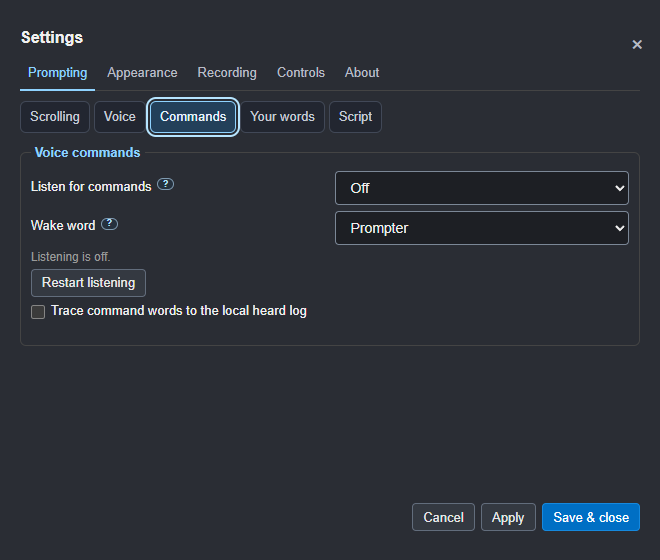
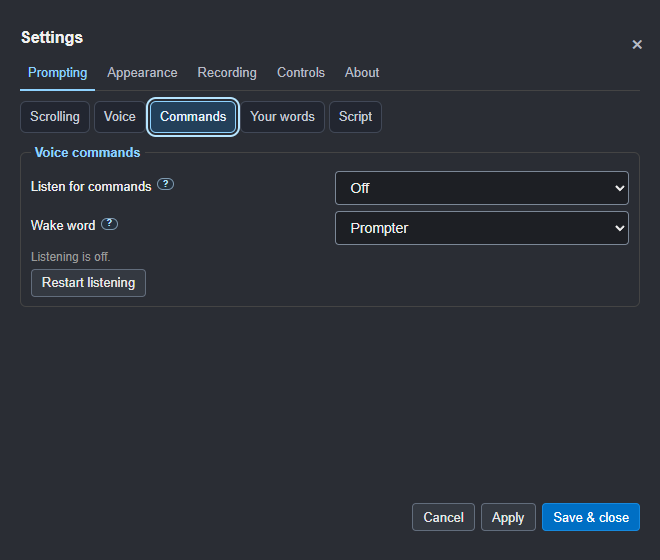
Group support logs and optional command tracing in Debug settings

Changed region(s): [[0.0303, 0.5464, 0.4848, 0.5768]]

diff --git a/src/client/teleprompter.html b/src/client/teleprompter.html
@@ -755,7 +755,6 @@
           </label>
           <p id="set-listening-status" class="field-hint" data-essential role="status" aria-live="polite">Listening is off.</p>
           <button type="button" id="set-listening-restart">Restart listening</button>
-          <label class="check" title="Save recognised words locally for troubleshooting, including while stopped. This can include surrounding conversation. Turn it off after checking; no audio is saved by this option."><input type="checkbox" id="set-trace-commands" /> Trace command words to the local heard log</label>
         </fieldset>
         <fieldset data-tab="voice">
           <legend>Recognition and microphone</legend>
@@ -1082,19 +1081,23 @@
             ><input id="set-check-updates" type="checkbox" /> Check for updates when
             Sightline starts (asks GitHub; nothing downloads by itself)</label
           >
-          <label class="check"
-            ><input id="set-debug-mode" type="checkbox" /> Debug mode: a step-by-step
-            log, for tracking down a problem</label
-          >
-          <p class="field-hint">Sightline always notes hangs, crashes and errors in a small log on this computer. Debug mode adds each step it takes, such as opening Settings, so a problem can be traced. <strong>Save a log for support</strong> puts it in one file to attach to a GitHub issue or an email, with your version, system and which features are on; never your scripts, keys or audio. Nothing is sent by itself.</p>
-          <p class="settings-about-actions">
-            <button type="button" id="settings-save-log">Save a log for support…</button>
-          </p>
           <p class="field-hint">
             <a href="https://github.com/JoJo-1965/sightline-prompter" target="_blank">github.com/JoJo-1965/sightline-prompter</a>
             ·
             <a href="https://joannelockwood.co.uk/sightline" target="_blank">joannelockwood.co.uk/sightline</a>
           </p>
+        </fieldset>
+
+        <fieldset data-tab="debug">
+          <legend>Support logs</legend>
+          <label class="check"><input id="set-debug-mode" type="checkbox" /> Debug mode: log each step for troubleshooting</label>
+          <p class="field-hint">Hangs, crashes, errors and listening recovery are logged locally. Debug mode adds detail. These logs contain no spoken words or audio.</p>
+          <button type="button" id="settings-save-log" title="Save the support log, version, system and enabled features; excludes scripts, keys, audio and command-word traces. Nothing is sent automatically.">Save a log for support…</button>
+        </fieldset>
+        <fieldset data-tab="debug">
+          <legend>Command-word tracing</legend>
+          <label class="check"><input type="checkbox" id="set-trace-commands" aria-describedby="set-trace-commands-note" /> Trace command words to the local heard log</label>
+          <p id="set-trace-commands-note" class="field-hint" data-essential>Off by default. Saves recognised text locally to investigate mishearings, independently of Debug mode. With Always listening, this may include nearby conversation while stopped or off air. Turn it off afterwards. No audio is saved by this option.</p>
         </fieldset>
 
         <div class="modal-actions settings-actions">

diff --git a/src/client/settings-navigation.js b/src/client/settings-navigation.js
@@ -4,7 +4,7 @@ export const SETTINGS_GROUPS = [
 	{ id: "appearance", label: "Appearance", pages: [ [ "reading", "Text" ], [ "background", "Background" ], [ "aids", "Reading aids" ], [ "layout", "Spacing" ], [ "display", "Screens" ] ] },
 	{ id: "recording", label: "Recording", pages: [ [ "recording", "Takes" ], [ "audio", "Audio" ] ] },
 	{ id: "controls", label: "Controls", pages: [ [ "pad", "Pad" ], [ "phone", "Phone" ], [ "streamdeck", "Stream Deck" ], [ "remotes", "AI & API" ], [ "obs", "OBS connection" ], [ "obs-recording", "OBS recording" ] ] },
-	{ id: "about", label: "About", pages: [ [ "about", "About" ] ] }
+	{ id: "about", label: "About", pages: [ [ "about", "About" ], [ "debug", "Debug" ] ] }
 ];
 
 export function createSettingsNavigation( modal, { onShow = () => {} } = {} ) {

diff --git a/src/main.js b/src/main.js
@@ -280,7 +280,7 @@ ipcMain.on( "debugLog", ( _event, text ) => {
 	if ( problem || settings.debugMode ) logProblem( `page: ${ text.slice( 0, 500 ) }` );
 } );
 
-// Settings > About > Save a log for support: the log, with what this computer
+// Settings > About > Debug > Save a log for support: the log, with what this computer
 // and Sightline look like, in one file to attach to an issue or an email. No
 // scripts, keys, word lists or audio; nothing is sent by itself.
 ipcMain.handle( "saveSupportLog", async ( event ) => {

diff --git a/src/client/teleprompter.js b/src/client/teleprompter.js
@@ -2489,7 +2489,7 @@ function markSettingsDirty( event ) {
 
 // Each step of opening Settings goes in sightline.log, so if it freezes, the
 // last line says where. (Looking into a freeze on Joanne's computer.)
-// (main.js only keeps them in debug mode, Settings > About.)
+// (main.js only keeps them in debug mode, Settings > About > Debug.)
 const settingsTrail = step => window.electron.debugLog?.( `settings: ${ step }` );
 
 uiElement( "settings-save-log" )?.addEventListener( "click", async () => {

diff --git a/docs/guide/07-settings.md b/docs/guide/07-settings.md
@@ -42,7 +42,7 @@ without disappearing as you move the pointer onto it.
 | --- | --- | --- |
 | **Prompting** | Scrolling | Steady or voice mode, steady speed and the opening countdown |
 | | Voice | Speech engine, model download, responsiveness, Deepgram key and microphone |
-| | Commands | When to listen, wake word, listener state, Restart listening and optional word tracing |
+| | Commands | When to listen, wake word, listener state and Restart listening |
 | | Your words | Script synonyms, command synonyms, sound-alike matching, suggestions and Teach |
 | | Script | Notes mode, pacing, script directions, slide cues and directive display |
 | **Appearance** | Text | Body and heading fonts, heading size, comment size/colour and text-size preview |
@@ -58,7 +58,8 @@ without disappearing as you move the pointer onto it.
 | | AI & API | Enable local automation, port, token, recording-delete permission and AI setup help |
 | | OBS connection | Enable OBS, address, port, protected password and the saved-connection test |
 | | OBS recording | Start/stop permission, chapters and preparing the recorded slate |
-| **About** | About | Version, a link to credits, updates, support, debug logging and the support-log export |
+| **About** | About | Version, a link to credits, updates and support |
+| | Debug | Debug logging, support-log export and optional command-word tracing |
 
 OBS settings stay discoverable while disabled so you can configure them.
 Both OBS topics are together under **Controls**. Recording keeps the
@@ -209,9 +210,17 @@ downloads or installs automatically.
 **Help > About**. Copyright and attribution live there, with no repeated
 messages in the Files menu or the Settings overview.
 
-**Debug mode** adds detail to the local support log. **Save a log for support…**
+**About > Debug > Debug mode** adds detail to the local support log. **Save a log for support…**
 creates a file containing the version, system and enabled features, excluding
-scripts, keys and audio. It sends nothing itself.
+scripts, keys, audio and command-word traces. It sends nothing itself.
+
+The separate **Trace command words to the local heard log** checkbox is also
+under **About > Debug**. It is off by default and does not require Debug mode.
+Apply saves the choice. This saves recognised text for investigating mishearings;
+with Always listening it may include nearby conversation while stopped or off air.
+Turn it off afterwards. Health and recovery logs contain no spoken words.
+
+![Debug logs and the optional command-word trace](images/settings-debug.png)
 
 Sightline is free and stays free. Support is voluntary and gives no extra
 features. See [privacy, terms and support](../POLICIES.md).

diff --git a/readme.md b/readme.md
@@ -243,6 +243,7 @@ mirroring under Screens and honours capture preferences for helper windows;
 **1.0.7-rc.11** improves OBS button contrast and keeps Settings above the prompter.
 **1.0.7-rc.12** adds independent size and colour for square-bracket comments.
 **1.0.7-rc.13** adds custom pad/phone layouts and listening recovery.
+**1.0.7-rc.14** gives troubleshooting controls their own **About > Debug** topic.
 The latest published app remains **1.0.6**. No tag, merge, Marketplace publication or
 website deployment is part of this candidate.
 
@@ -254,7 +255,9 @@ website deployment is part of this candidate.
 - **Wake-word listening recovery:** interrupted audio or a stalled recogniser
   restarts with bounded retries, preserving position and hold. Silence and
   listening-off stay respected. **Prompting > Commands** shows state and
-  Restart listening; its optional command-word trace is off by default.
+  Restart listening. The optional command-word trace is off by default and
+  lives under **Settings > About > Debug**, independently of Debug mode,
+  with a warning about nearby conversation and the usual Apply/Save controls.
   Applying a wake-word change updates an already-running listener too.
   Stopping during startup cancels cleanly; late messages from the old
   listener cannot stop its replacement.

diff --git a/src/samples/acceptance-main.md b/src/samples/acceptance-main.md
@@ -6,7 +6,7 @@
 
 [Check OBS is connected and recording controls are allowed. Prepare the recorded slate, choose Flash and beep, and enable scratch audio. The script does not enable these settings for you.]
 
-[A00. Before recording, choose Check compatibility in Settings > Controls > Stream Deck. Confirm Sightline RC13 and plugin 0.1.9 are reported as compatible. In Stream Deck, open a key's settings and check its connection result.]
+[A00. Before recording, choose Check compatibility in Settings > Controls > Stream Deck. Confirm Sightline RC14 and plugin 0.1.9 are reported as compatible. In Stream Deck, open a key's settings and check its connection result.]
 
 [A00b. Before recording, open Settings from Files. Move its window by the native title bar, onto another screen if available. Close and reopen: it should remember its position. Change a draft setting and try closing: Keep editing must retain it; Apply must save without closing. F1 Help should also move independently and keep a stable frame across tabs. Mirror the prompter: Settings and Help must stay upright. Tools opens below its button; Edit beside it opens read-only sample source with Save a copy. In a spare slot try Clear, then Cancel: the sample must remain. Return here.]
 

diff --git a/docs/guide/08-shortcuts-and-troubleshooting.md b/docs/guide/08-shortcuts-and-troubleshooting.md
@@ -3,7 +3,7 @@
 **Wake word sometimes stops responding:** check **Settings > Prompting >
 Commands**. Audio/engine faults recover automatically with bounded retries;
 use **Restart listening** or click the listening badge for a manual retry.
-To investigate a misheard word, enable the optional local command-word trace,
+To investigate a misheard word, enable the optional local command-word trace in **Settings > About > Debug**,
 reproduce it, then switch tracing off. See [Listening recovery](03-scrolling-and-voice.md#if-listening-stops-responding).
 
 **Changing pad or phone buttons:** use **Settings > Controls > Pad**, or
@@ -80,7 +80,7 @@ See [voice input checks](03-scrolling-and-voice.md#if-ordinary-words-or-whole-li
 reloading keeps your scripts and settings, but loses unsaved changes in the
 editor. Hangs, crashes and errors are noted in `sightline.log` in Sightline's
 folder (`%APPDATA%\Sightline Prompter` on Windows). To report it, turn on
-**Settings > About > Debug mode**, make it happen again, then use **Save a log
+**Settings > About > Debug > Debug mode**, make it happen again, then use **Save a log
 for support…** and attach the file.
 
 **A voice command isn't heard.** Say "Prompter", then the command, then stop

diff --git a/docs/FEATURES.md b/docs/FEATURES.md
@@ -309,7 +309,9 @@ The whole workflow is in the guide:
 - **Listening recovery:** health checks restart interrupted capture or speech
   processing without moving the script or changing its hold. Silence and
   intentional listening-off do not cause restarts. Retries are bounded, with
-  a manual Restart listening button, live state and opt-in local word tracing.
+  a manual Restart listening button and live state. Optional local word tracing
+  lives in **Settings > About > Debug**, alongside support logs. It is off by
+  default, independent of Debug mode, and warns about nearby conversation.
 - **Control window** for a second screen: an upright, live copy of the script
   with big buttons. Click any line to move the prompter there. Its broadcast
   row sets the prompter's on air, text size, backing, mirroring, eye-line and

diff --git a/skills/sightline-session/SKILL.md b/skills/sightline-session/SKILL.md
@@ -207,7 +207,7 @@ Publication remains held until all five production requirements are validated.
 Commands-only listener health is available as `listenerHealth` in status.
 Recovery is bounded and respects listening-off and script mute. The user can
 use Prompting > Commands > Restart listening. Command-word text tracing is
-off by default and must be explicitly enabled there for troubleshooting;
+off by default and must be explicitly enabled in Settings > About > Debug for troubleshooting;
 entries have `mode: "commands"`. Do not enable it through automation. It may
 include surrounding conversation, so ask the user to switch it off afterwards.
 `padLayout` in status describes the shared phone/pad layout; hardware Stream

diff --git a/docs/PRIVACY.md b/docs/PRIVACY.md
@@ -55,7 +55,7 @@ Local recognition processes microphone audio before it knows whether you
 said the wake word. It is not listening only after you say "Prompter".
 By default the commands-only listener does not write a heard log; voice
 following does. **Trace command words to the local heard log**, in
-**Settings > Prompting > Commands**, explicitly enables recognised-text
+**Settings > About > Debug**, explicitly enables recognised-text
 diagnostics for commands-only listening. It is off by default. When enabled,
 it can save recognised conversation while stopped or off air. Turn it off
 after troubleshooting. This option does not record audio. Automatic recovery

diff --git a/ROADMAP.md b/ROADMAP.md
@@ -56,6 +56,8 @@ RC12 adds independent size and colour for square-bracket delivery comments
 under Appearance > Text, following Heading font while retaining speech exclusions.
 RC13 completes the customisable pad (#56), shares its layout with the phone,
 and adds bounded listening recovery, immediate wake-word changes and opt-in tracing.
+RC14 puts support logs and the optional word trace in **About > Debug**, with
+the trace off by default and a visible nearby-conversation warning.
 
 The [acceptance walkthrough](docs/guide/14-acceptance-test.md) and two bundled
 sample scripts cover natural voice, physical Stream Deck controls, stops,
